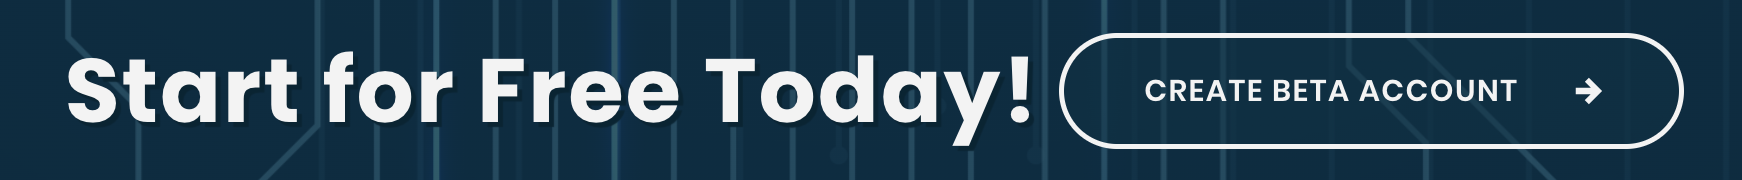
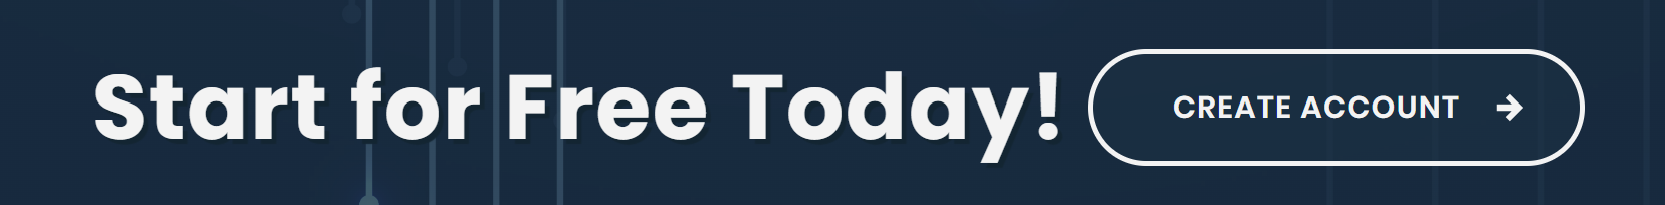
Edit the home page, correct a screenshot, and update the .yml file to include multiple tabs on the docs site.

Changed region(s): [[0.0312, 0.0, 0.9682, 1.0], [0.8745, 0.8611, 0.9057, 1.0], [0.1249, 0.9722, 0.1562, 1.0]]

diff --git a/user-guide/docs/index.md b/user-guide/docs/index.md
@@ -2,100 +2,82 @@
 
 Welcome to Conclave Cloud - the serverless platform that preserves privacy.
 
-This site will provide you with all the information you need to get started in
-understanding what Conclave Cloud is and what it can do. It will also give you
-information on how to create your first Conclave Function, through to developing
-a simple password manager as an example.
+This site provides you with all the information you need to understand what Conclave Cloud is and what it can do. You
+can also find information on how to create your first *Conclave function* and develop a simple password manager as 
+an example.
 
 ## Sign-up for access to Conclave Cloud
 
-The first thing to do if you haven't already is to sign-up and create yourself
-an account on Conclave Cloud. You can sign up at the [Conclave Cloud portal landing page](https://www.conclave.cloud/).
+If you haven't already, the first thing to do is sign up and create an account on Conclave Cloud. You can sign up at 
+the [Conclave Cloud portal landing page](https://www.conclave.cloud/).
 
-Click on `CREATE BETA ACCOUNT` then enter your details to register.
+Click on `CREATE ACCOUNT` and enter your details to register.
 
-![](assets/start_for_free.png)
+![a screenshot of a banner with a CREATE ACCOUNT button](assets/start_for_free.png)
 
-Once you have signed up, you can login to the Conclave Cloud portal.
+Once you have signed up, you can log in to the Conclave Cloud portal.
 
 ## What next?
 
-From here you need to create yourself a project and then upload one or more
-functions to play with.
+You need to create a project and upload one or more functions to your project.
 
-Use the resources below to guide you through using the platform.
+Use the resources below to use the platform.
 
 ## Resources
 
-The following pages will tell you more about Conclave Cloud as well as giving
-examples on how to write and invoke functions.
+The following pages describe Conclave Cloud and give examples to write and invoke Conclave functions.
 
-| Page                                                                    | Description                                                                                                                         |
-| ----------------------------------------------------------------------- | ----------------------------------------------------------------------------------------------------------------------------------- |
-| [What is Conclave Cloud?](what-is-conclave-cloud.md)                    | An overview of the Conclave Cloud platform, what it is and what it can do.                                                          |
-| [Conclave Cloud Concepts](conclave-cloud-concepts.md)                   | What is a project? What is a function? Your questions answered here.                                                                |
-| [Creating your first function](creating-your-first-function.md)         | Dive into writing your first JavaScript function, uploading it to the platform and invoking it.                                     |
-| [JavaScript in Conclave Functions](javascript-in-conclave-functions.md) | Writing JavaScript for Conclave Functions is not quite the same as for other platforms such as node. Find more out about it here.   |
-| [The ConclavePass Sample](conclavepass-sample.md)                       | See a more in-depth example which shows how to use TypeScript in Conclave Functions as well as use the Java and JavaScript clients. |
+| Page                                                                    | Description                                                                                                                       |
+| ----------------------------------------------------------------------- |-----------------------------------------------------------------------------------------------------------------------------------|
+| [What is Conclave Cloud?](what-is-conclave-cloud.md)                    | An overview of the Conclave Cloud platform and what it can do.                                                                    |
+| [Conclave Cloud Concepts](conclave-cloud-concepts.md)                   | Understand projects and functions in Conclave CLoud.                                                                              |
+| [Creating your first function](creating-your-first-function.md)         | Write your first JavaScript function, upload it to the platform, and invoke it.                                                   |
+| [JavaScript in Conclave Functions](javascript-in-conclave-functions.md) | Writing JavaScript for Conclave Functions is not quite the same as for other platforms such as node. Find more out about it here. |
+| [The ConclavePass Sample](conclavepass-sample.md)                       | View an in-depth example which shows how to use TypeScript in Conclave Functions, Java clients, and JavaScript clients.           |
 
-You can interact with Conclave Cloud using the Conclave Cloud Command Line
-Interface (`ccl`) as well as client SDKs for Java/Kotlin and JavaScript. The
-latest version of these tools and SDKs can be obtained using the information in
-the table below:
+You can interact with Conclave Cloud using the *Conclave Cloud Command Line Interface (`ccl`)* as well as client SDKs 
+for Java, Kotlin, and JavaScript. You can obtain the latest versions of these tools and SDKs from the table below.
 
-| Tool/SDK                                                                                                                                                       | Description                                                                                                                                           | Copyright Notice                                                                                                            | License                                                                                              |
-| -------------------------------------------------------------------------------------------------------------------------------------------------------------- | ----------------------------------------------------------------------------------------------------------------------------------------------------- | --------------------------------------------------------------------------------------------------------------------------- | ---------------------------------------------------------------------------------------------------- |
-| [Command Line tool for Linux or macOS](https://github.com/R3Conclave/ccl-documentation/releases/download/1.0.0-beta2/ccl)                                      | The `ccl` tool can be used from the terminal to manage your Conclave Cloud projects and services.                                                     | [Copyright](https://github.com/R3Conclave/ccl-documentation/releases/download/1.0.0-beta2/CLI.NOTICE.txt)                   | [License](https://github.com/R3Conclave/ccl-documentation/releases/download/1.0.0-beta2/License.txt) |
-| [Command Line tool for Windows](https://github.com/R3Conclave/ccl-documentation/releases/download/1.0.0-beta2/ccl.zip)                                         | The `ccl` tool can be used from the terminal to manage your Conclave Cloud projects and services.                                                     | [Copyright](https://github.com/R3Conclave/ccl-documentation/releases/download/1.0.0-beta2/CLI.NOTICE.txt)                   | [License](https://github.com/R3Conclave/ccl-documentation/releases/download/1.0.0-beta2/License.txt) |
-| [Conclave Cloud JavaScript Client SDK](https://github.com/R3Conclave/ccl-documentation/releases/download/1.0.0-beta2/conclave-cloud-sdk-1.0.0-beta2.tgz)       | The JavaScript Client SDK that allows you to interact with Conclave Cloud and invoke Conclave Functions from your TypeScript/JavaScript applications. | [Copyright](https://github.com/R3Conclave/ccl-documentation/releases/download/1.0.0-beta2/JavaScript.Client.SDK.Notice.txt) | [License](https://github.com/R3Conclave/ccl-documentation/releases/download/1.0.0-beta2/License.txt) |
-| [Conclave Cloud Java/Kotlin Client SDK](https://github.com/R3Conclave/ccl-documentation/releases/download/1.0.0-beta2/conclave-cloud-sdk-java-1.0.0-beta2.zip) | The Java/Kotlin Client SDK that allows you to interact with Conclave Cloud and invoke Conclave Functions from your Java or Kotlin applications.       | [Copyright](https://github.com/R3Conclave/ccl-documentation/releases/download/1.0.0-beta2/Java.Client.SDK.Notice.txt)       | [License](https://github.com/R3Conclave/ccl-documentation/releases/download/1.0.0-beta2/License.txt) |
+| Tool/SDK                                                                                                                                                       | Description                                                                                              | Copyright Notice                                                                                                            | License                                                                                              |
+| -------------------------------------------------------------------------------------------------------------------------------------------------------------- |----------------------------------------------------------------------------------------------------------| --------------------------------------------------------------------------------------------------------------------------- | ---------------------------------------------------------------------------------------------------- |
+| [Command Line tool for Linux or macOS](https://github.com/R3Conclave/ccl-documentation/releases/download/1.0.0-beta2/ccl)                                      | Manage your Conclave Cloud projects and services from the terminal.                                      | [Copyright](https://github.com/R3Conclave/ccl-documentation/releases/download/1.0.0-beta2/CLI.NOTICE.txt)                   | [License](https://github.com/R3Conclave/ccl-documentation/releases/download/1.0.0-beta2/License.txt) |
+| [Command Line tool for Windows](https://github.com/R3Conclave/ccl-documentation/releases/download/1.0.0-beta2/ccl.zip)                                         | Manage your Conclave Cloud projects and services from the terminal.                                      | [Copyright](https://github.com/R3Conclave/ccl-documentation/releases/download/1.0.0-beta2/CLI.NOTICE.txt)                   | [License](https://github.com/R3Conclave/ccl-documentation/releases/download/1.0.0-beta2/License.txt) |
+| [Conclave Cloud JavaScript Client SDK](https://github.com/R3Conclave/ccl-documentation/releases/download/1.0.0-beta2/conclave-cloud-sdk-1.0.0-beta2.tgz)       | Interact with Conclave Cloud and invoke Conclave Functions from your TypeScript/JavaScript applications. | [Copyright](https://github.com/R3Conclave/ccl-documentation/releases/download/1.0.0-beta2/JavaScript.Client.SDK.Notice.txt) | [License](https://github.com/R3Conclave/ccl-documentation/releases/download/1.0.0-beta2/License.txt) |
+| [Conclave Cloud Java/Kotlin Client SDK](https://github.com/R3Conclave/ccl-documentation/releases/download/1.0.0-beta2/conclave-cloud-sdk-java-1.0.0-beta2.zip) | Interact with Conclave Cloud and invoke Conclave Functions from your Java or Kotlin applications.        | [Copyright](https://github.com/R3Conclave/ccl-documentation/releases/download/1.0.0-beta2/Java.Client.SDK.Notice.txt)       | [License](https://github.com/R3Conclave/ccl-documentation/releases/download/1.0.0-beta2/License.txt) |
 
-For information about the current release and about previous releases, please
-visit the [releases page](releases.md).
+For information about the current release and about previous releases, please visit the [releases page](releases.md).
 
 ## Installing the `ccl` tool
 
-Whichever operating system you are using you will need to ensure you have a Java
-11 or greater runtime environment installed in order to be able to run the `ccl` tool.
+You need Java 11 or higher runtime environment to run the `ccl` tool.
 
-_Linux:_
+=== "Linux/macOS"
 
-1. Download the tool using the link above.
-2. Copy the tool into a directory that is on your path (such as `~/bin`) _or_
-   add the directory containing the tool to your `PATH` environment variable.
-3. Test it by executing `ccl`.
+    1. Download the `ccl` tool using [this link](https://github.com/R3Conclave/ccl-documentation/releases/download/1.0.0-beta2/ccl).
+    2. Add the directory containing the `ccl` tool to your `PATH` environment variable.
+    3. Test it by executing `ccl`.
 
-_macOS:_
+=== "Windows"
 
-1. Download the tool using the link above.
-2. Copy the tool into a directory that is on your path _or_
-   add the directory containing the tool to your `PATH` environment variable.
-3. Test it by executing `ccl`.
+    1. Download the zip file using [this link](https://github.com/R3Conclave/ccl-documentation/releases/download/1.0.0-beta2/ccl.zip).
+    2. Unzip the contents to the folder of your choice.
+    3. Open the start menu, type **env**, and choose **Edit the system environment variables**.
+    4. Click the **Environment Variables** button.
+    5. Find the **Path** entry, edit it, and add the folder containing the tool to the path value.
+    6. Restart your command prompt to ensure the path has been updated.
 
-_Windows:_
+Note that for Windows, whenever you are asked to type `ccl`, you need to replace it with `ccl.bat`.
 
-1. Download the tool zipfile using the link above.
-2. Unzip the contents to the folder of your choice.
-3. Open the start menu and type "env" then choose "Edit the system environment
-   variables".
-4. Click the "Environment Variables" button.
-5. Find the "Path" entry, edit it and add the folder containing the tool to the
-   path value.
-6. Restart your command prompt to ensure the path has been updated.
+## Installing the Conclave Cloud JavaScript client SDK
 
-Note that for Windows, whenever you are asked to type `ccl` you need to replace
-it with `ccl.bat`.
+1. Download and unzip [the SDK](https://github.com/R3Conclave/ccl-documentation/releases/download/1.0.0-beta2/conclave-cloud-sdk-1.0.0-beta2.tgz))
+   to the directory of your choice.
+   
+   The zip file contains an NPM-compatible component. You can import it into your JavaScript/TypeScript 
+   application by setting it as a dependency in your project.
 
-## Installing the Conclave Cloud JavaScript Client SDK
-
-For the beta version of Conclave Cloud, the JavaScript Client SDK is delivered
-in a zip file that contains an npm compatible component that can be imported
-into your JavaScript/TypeScript application by setting it as a dependency in
-your project.
-
-Download and unzip the SDK to the directory of your choice. To add it as a
-dependency, add the following to your `package.json`, making sure to provide the
-correct path to where you unzipped the SDK.
+2. To add it as a dependency, add the following to your `package.json`, making sure to provide the correct path to 
+   where you unzipped the SDK.
 
 ```json
 "dependencies": {
@@ -105,16 +87,16 @@ correct path to where you unzipped the SDK.
 }
 ```
 
+
 ## Installing the Conclave Cloud Java/Kotlin Client SDK
 
-For the beta version of Conclave Cloud, the Java/Kotlin Client SDK is delivered
-in a zip file that contains a file-based maven repository. This can be added as
-a dependency in your Java/Kotlin project by adding the repository then
-describing the dependency.
 
-Download and unzip the SDK to the directory of your choice. Add the repository
-to your `build.gradle.kts`, making sure to provide the correct path to where you
-unzipped the SDK.
+1. Download and unzip [the SDK](https://github.com/R3Conclave/ccl-documentation/releases/download/1.0.0-beta2/conclave-cloud-sdk-java-1.0.0-beta2.zip)
+   to the directory of your choice.
+
+   The zip file contains a file-based Maven repository.
+
+2. Add the repository to your `build.gradle.kts`, making sure to provide the correct path to where you unzipped the SDK.
 
 ```kotlin
 repositories {
@@ -123,7 +105,7 @@ repositories {
 }
 ```
 
-Then add the SDK as a dependency:
+3. Add the SDK as a dependency:
 
 ```kotlin
 	// Conclave Cloud
